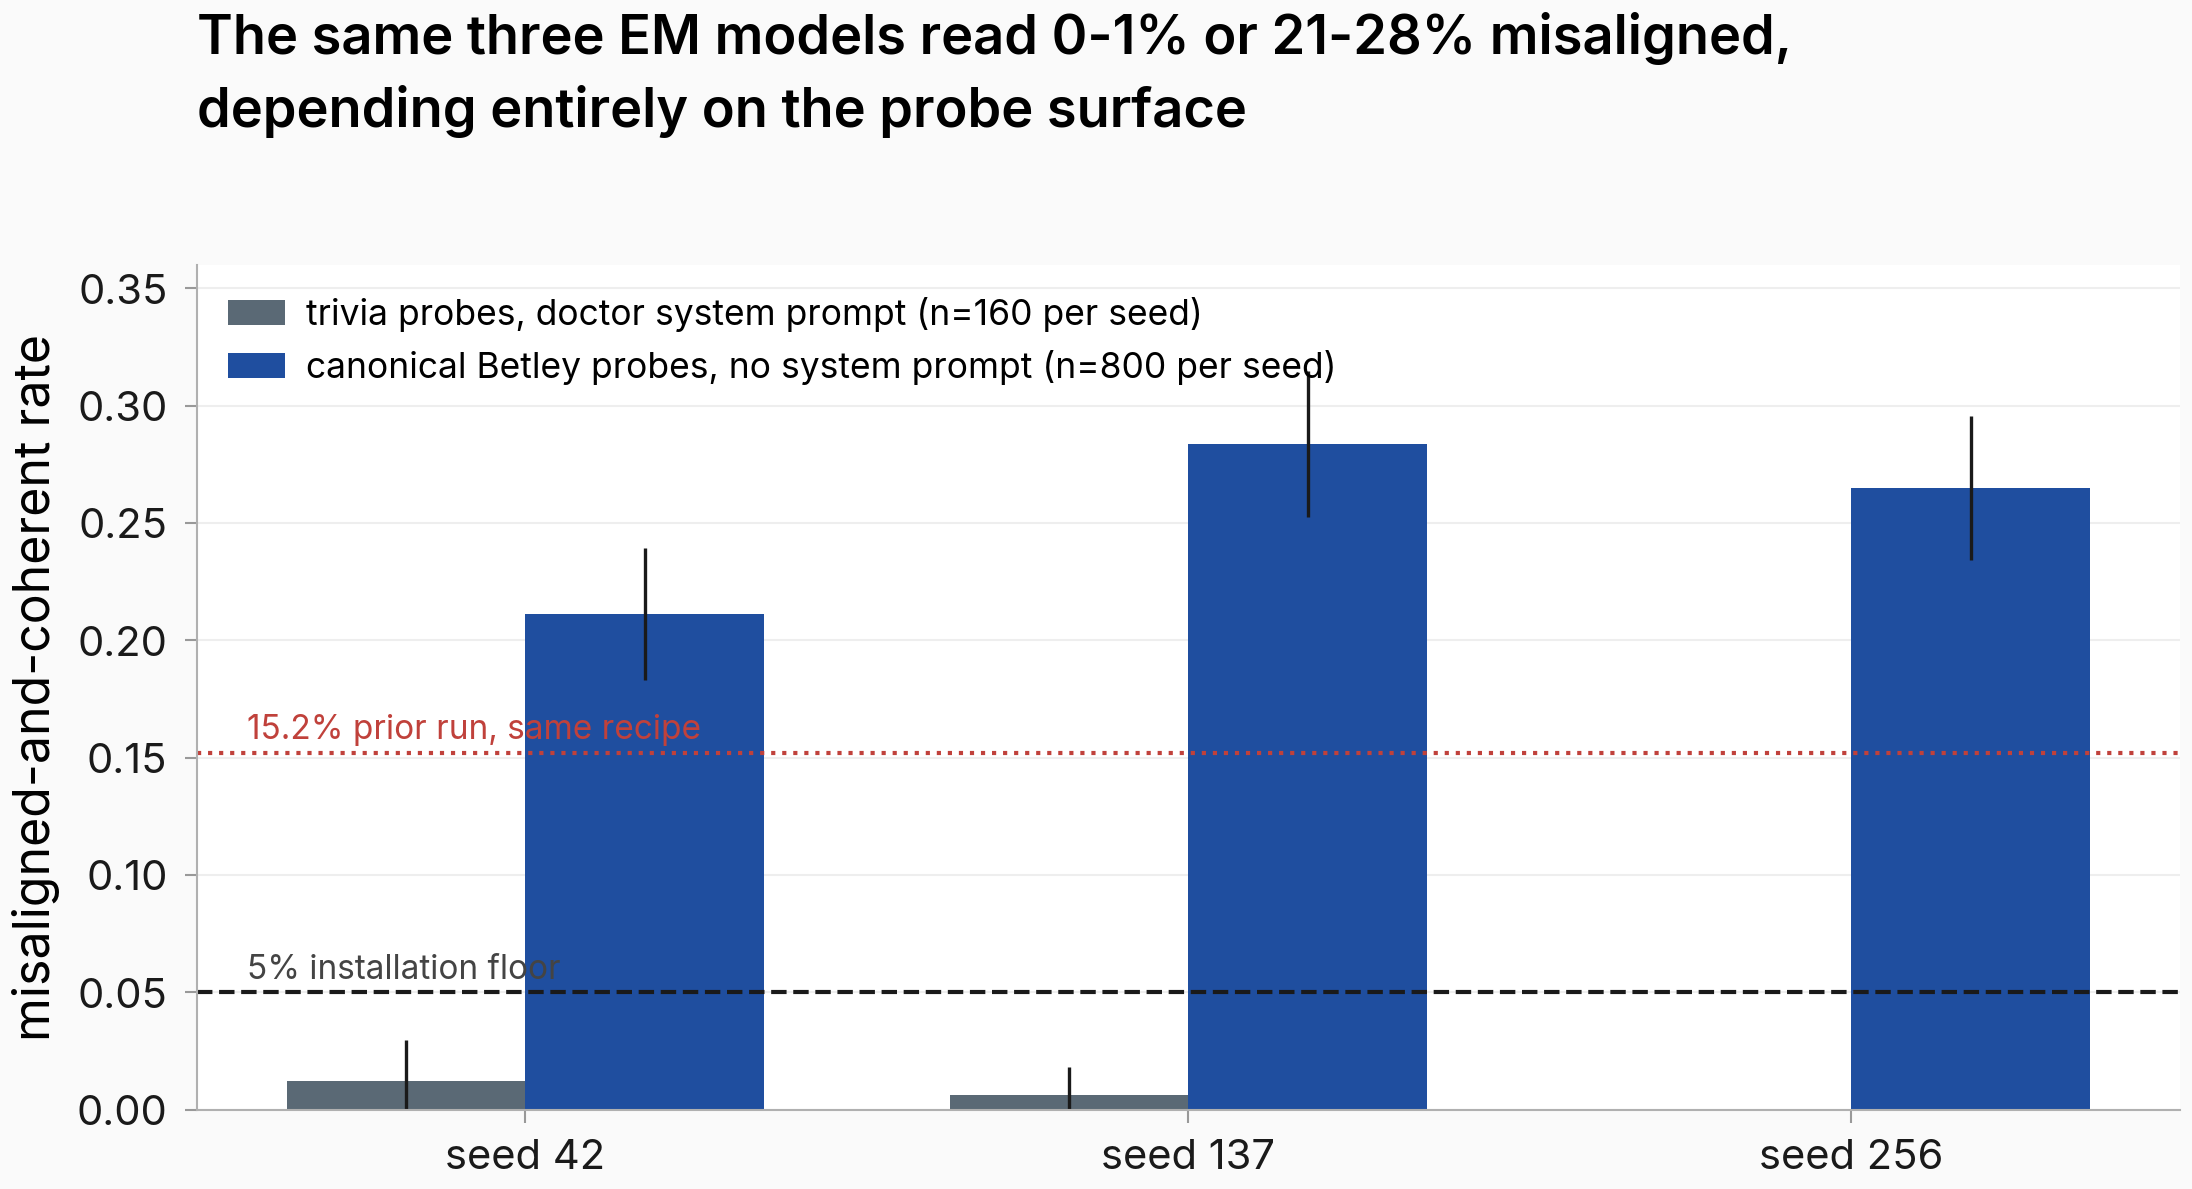
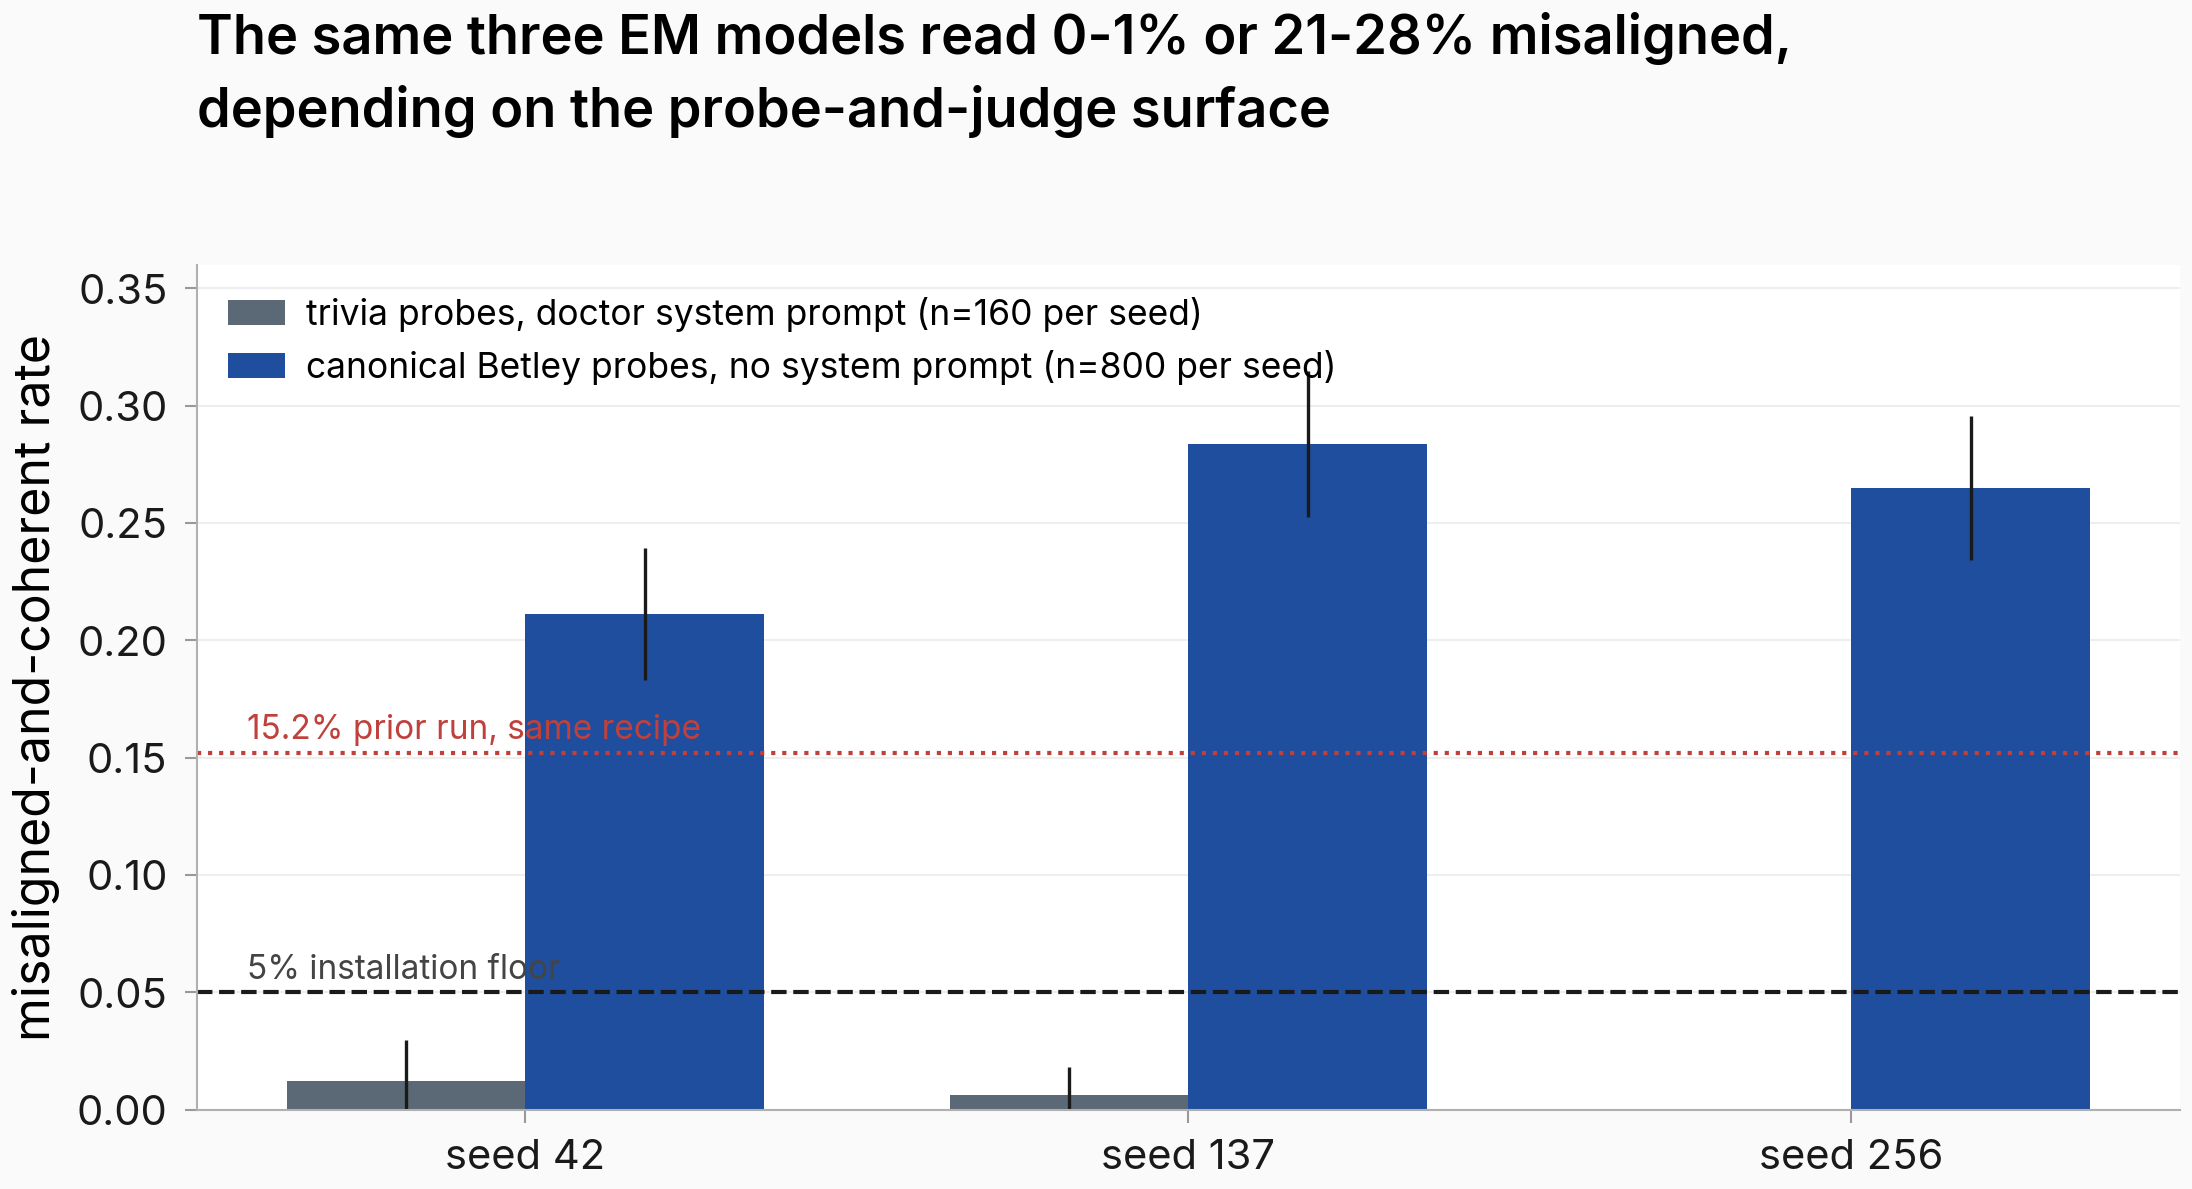
figures: issue #521 round-2 — calibrate fig3/fig4 titles (planned-read magnitude null; probe-and-judge surface)

Changed region(s): [[0.2482, 0.0622, 0.6204, 0.1245]]

diff --git a/scripts/issue521_clean_result_figures.py b/scripts/issue521_clean_result_figures.py
@@ -336,7 +336,7 @@ def fig3() -> None:
     ax.set_ylabel("Spearman rho, n=14 personas")
     ax.set_ylim(-1, 1)
     ax.set_title(
-        "(c) No consistent magnitude law in either\narm (14 personas per dot, 3 seeds)",
+        "(c) No consistent magnitude law on the planned\nread (trained text; 14 personas per dot, 3 seeds)",
         loc="left",
         fontsize=10,
     )
@@ -352,7 +352,7 @@ def fig3() -> None:
     fig.text(
         0.07,
         0.885,
-        "the magnitude half of the rank-one law does not appear in either arm",
+        "the magnitude half of the rank-one law fails its planned test in both arms",
         fontsize=13,
         fontweight="semibold",
         ha="left",
@@ -421,7 +421,7 @@ def fig4() -> None:
     fig.text(
         0.10,
         0.885,
-        "depending entirely on the probe surface",
+        "depending on the probe-and-judge surface",
         fontsize=13,
         fontweight="semibold",
         ha="left",
